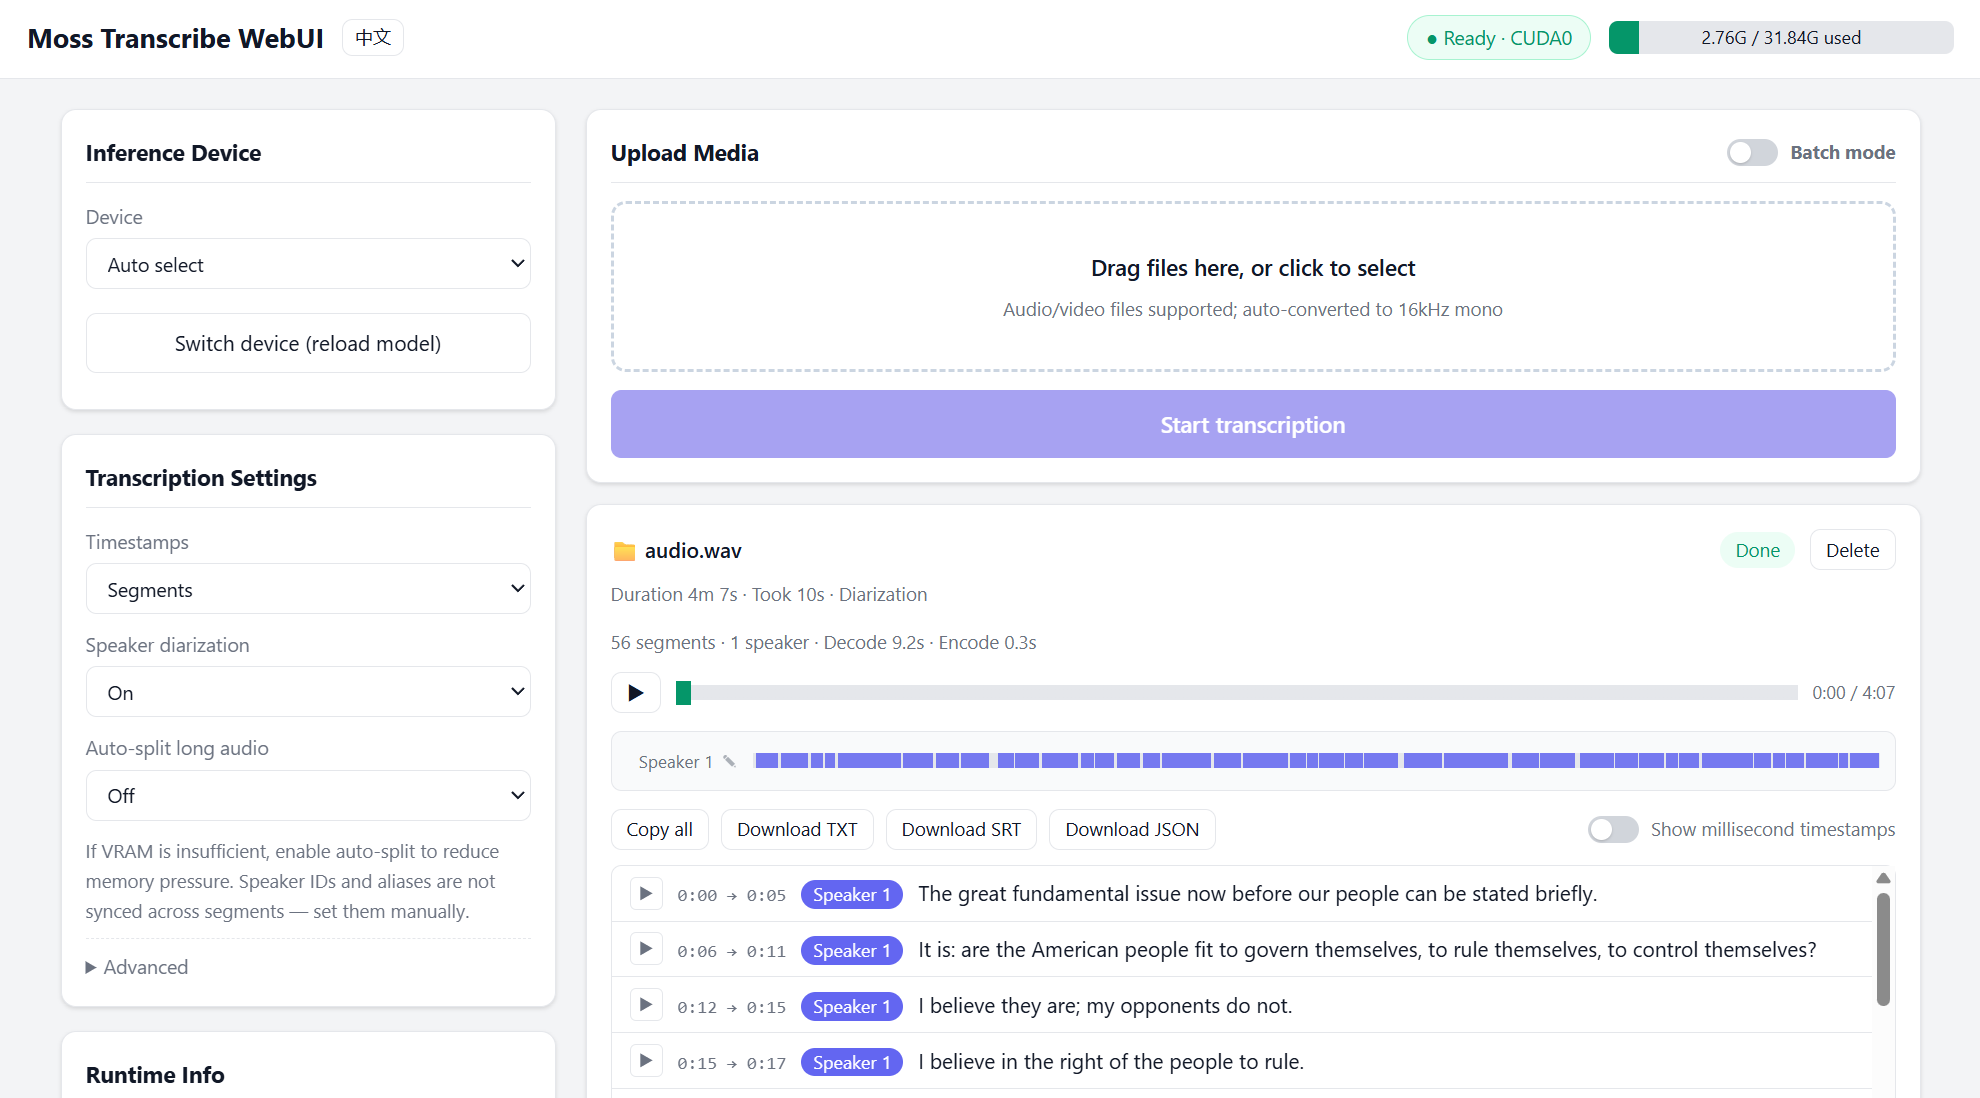
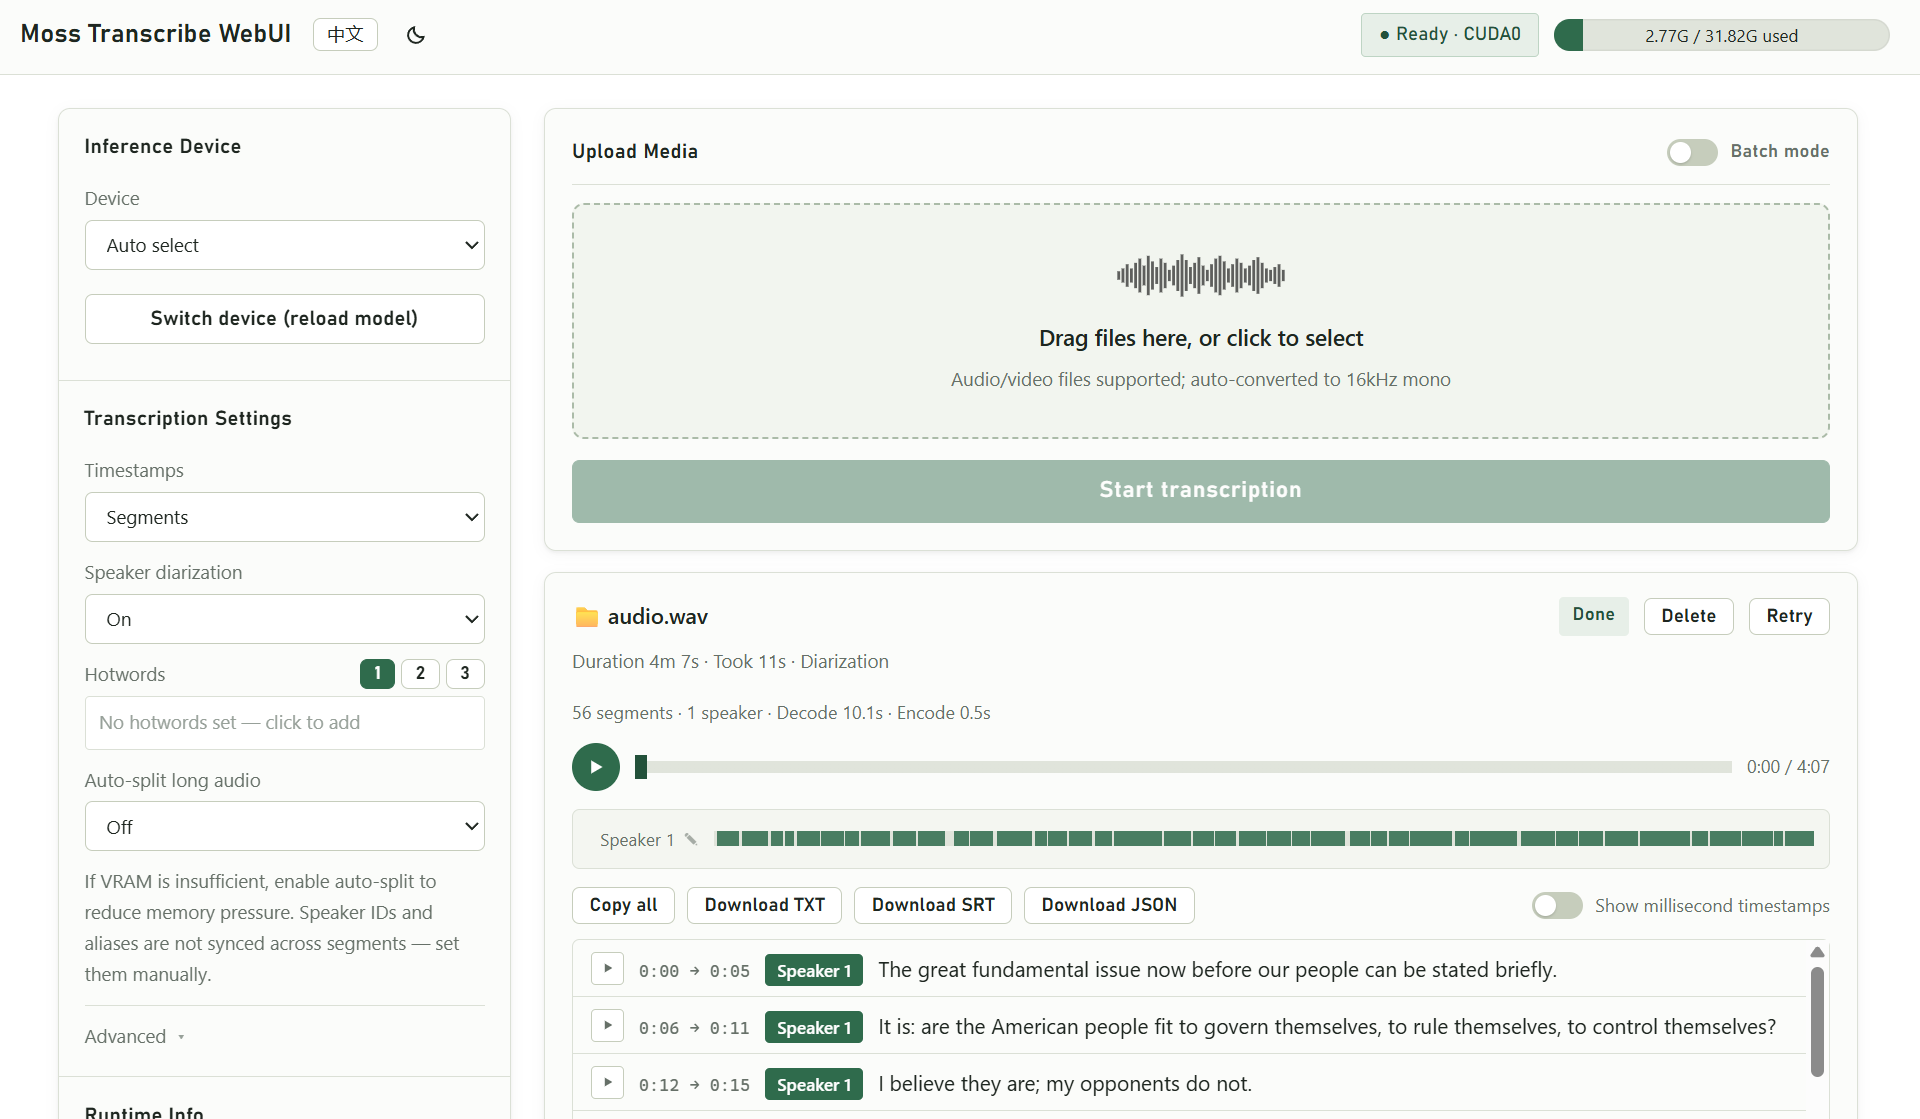
v0.4.0 release: massive UI overhaul + hotwords support

diff --git a/webui/server.py b/webui/server.py
@@ -31,7 +31,7 @@ DEFAULT_MODEL = str(Path(__file__).resolve().parent.parent / "resources" / "mode
 MAX_UPLOAD_BYTES = 32 * 1024**3
 STATIC_DIR = Path(__file__).parent / "static"
 
-__version__ = "0.3.2"  # WebUI 版本号（/api/status 下发，CLI 独立维护同值）
+__version__ = "0.4.0"  # WebUI 版本号（/api/status 下发，CLI 独立维护同值）
 
 _NATIVE_LEVELS = {1: logging.INFO, 2: logging.WARNING, 3: logging.ERROR, 4: logging.DEBUG}
 

diff --git a/cli/transcribe.py b/cli/transcribe.py
@@ -29,7 +29,7 @@ from pathlib import Path
 from urllib.parse import urlsplit
 
 PROG = "transcribe"
-VERSION = "0.3.2"   # keep in sync with webui/server.py __version__
+VERSION = "0.4.0"   # keep in sync with webui/server.py __version__
 
 MEDIA_EXTS = {".wav", ".mp3", ".m4a", ".flac", ".ogg", ".opus", ".aac",
               ".wma", ".mp4", ".mkv", ".webm", ".mov", ".avi"}

diff --git a/README_EN.md b/README_EN.md
@@ -12,7 +12,7 @@ A **high-performance local** speech transcription WebUI built on [`transcribe.cp
 
 ![ScreenShot_EN](readme_pic/ScreenShot_EN.png)
 
-[Download](https://github.com/TigerSHe1998/Moss-Transcribe-WebUI/releases/tag/v0.3.2)
+[Download](https://github.com/TigerSHe1998/Moss-Transcribe-WebUI/releases/tag/v0.4.0)
 
 </div>
 
@@ -45,11 +45,12 @@ Available options: `-h/--help`, `--host`, `--port`, `-m/--model` (GGUF path; def
 `cli\transcribe.bat` offers one-shot transcription without opening the browser — ideal for scripts and AI Agent integration. Add the `cli` folder to PATH for global availability:
 
 ```bat
-transcribe meeting.wav                       :: single file transcription (writes meeting.txt)
-transcribe --batch ./recordings --output all :: batch a folder, writes txt/srt/json
-transcribe --list-backend                    :: list available inference backends
-transcribe voice.mp3 --autosplit 15          :: auto-split long audio every 15 minutes
-transcribe voice.mp3 --host 192.168.50.2     :: use a WebUI service on the LAN
+transcribe meeting.wav                        :: single file transcription (writes meeting.txt)
+transcribe --batch ./recordings --output all  :: batch a folder, writes txt/srt/json
+transcribe --list-backend                     :: list available inference backends
+transcribe voice.mp3 --autosplit 15           :: auto-split long audio every 15 minutes
+transcribe voice.mp3 --vocabulary "hot,words" :: pass in hotwords as a comma seperated list
+transcribe voice.mp3 --host 192.168.50.2      :: use a WebUI service on the LAN
 ```
 
 The CLI detects the service automatically: if one is already running it attaches (and leaves it running afterwards); otherwise it starts a local service and stops it when finished. 
@@ -69,7 +70,8 @@ Run `transcribe --help` for all options.
 - [X] **Batch upload**: enable batch mode to select multiple files at once; they are uploaded and queued one by one
 - [X] **Multilanguage support (中文 / English)**: one-click language toggle in the header
 - [X] **CLI for Agent use**: `cli\transcribe.bat` one-shot transcription (single file / folder batch), attaches to or starts a WebUI service automatically, supports all transcription options and remote services
-- [ ] **Hotwords**: the transcribe.cpp backend does not yet support hotword input for Moss models; will follow once upstream lands
+- [X] **Hotwords**: edit hotwords in transcription settings (three presets, csv/txt import) to fix proper-noun spelling
+- [X] **Dark mode**: one-click light/dark theme toggle in the header
 
 ## Notes
 

diff --git a/README.md b/README.md
@@ -12,7 +12,7 @@
 
 ![ScreenShot_CN](readme_pic/ScreenShot_CN.png)
 
-[前往下载](https://github.com/TigerSHe1998/Moss-Transcribe-WebUI/releases/tag/v0.3.2)
+[前往下载](https://github.com/TigerSHe1998/Moss-Transcribe-WebUI/releases/tag/v0.4.0)
 
 </div>
 
@@ -45,11 +45,12 @@ run_webui.bat          :: 启动后本机访问 http://127.0.0.1:8390
 `cli\transcribe.bat` 提供无需打开浏览器的一键转录，适合脚本调用或 AI Agent 集成。将 `cli` 文件夹加入 PATH 环境变量后即可便捷全局使用：
 
 ```bat
-transcribe meeting.wav                       :: 单文件转录（输出 meeting.txt）
-transcribe --batch ./recordings --output all :: 文件夹批量转录，输出 txt/srt/json
-transcribe --list-backend                    :: 列出可用推理后端
-transcribe voice.mp3 --autosplit 15          :: 长音频按 15 分钟自动分段
-transcribe voice.mp3 --host 192.168.50.2     :: 对接局域网内已运行的 WebUI 服务
+transcribe meeting.wav                        :: 单文件转录（输出 meeting.txt）
+transcribe --batch ./recordings --output all  :: 文件夹批量转录，输出 txt/srt/json
+transcribe --list-backend                     :: 列出可用推理后端
+transcribe voice.mp3 --autosplit 15           :: 长音频按 15 分钟自动分段
+transcribe voice.mp3 --vocabulary "hot,words" :: 传入热词列表（英文逗号分隔）
+transcribe voice.mp3 --host 192.168.50.2      :: 对接局域网内已运行的 WebUI 服务
 ```
 
 CLI 会自动检测 WebUI 服务是否存在：已在运行则直接对接，本机无服务则自动启动并在完成后停止。
@@ -69,7 +70,8 @@ CLI 会自动检测 WebUI 服务是否存在：已在运行则直接对接，本
 - [X] **批量上传**：开启「批量模式」后支持一次选择多个文件，逐个自动上传排队
 - [X] **English Support**：一键切换界面语言（中文 / English）
 - [X] **CLI 供 Agent 快速转录**：`cli\transcribe.bat` 一键转录（单文件 / 文件夹批量），自动对接或拉起 WebUI 服务，支持全部转录选项与远程服务
-- [ ] **热词支持**：transcribe.cpp 后端暂未适配 Moss 模型的热词输入，上游适配后跟进
+- [X] **热词支持**：支持录入热词列表，纠正容易听错的专有名词（三个快速保存预设、可导入 csv/txt 文件）
+- [X] **深色模式**：顶栏按钮一键切换深浅主题，偏好记忆在本地
 
 ## 其他说明
 
